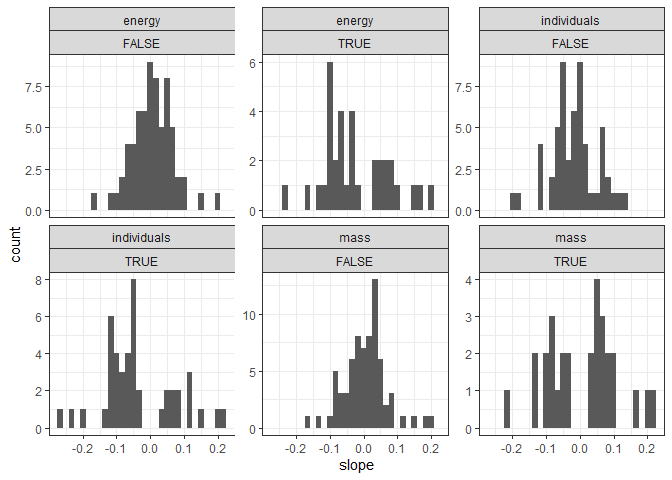
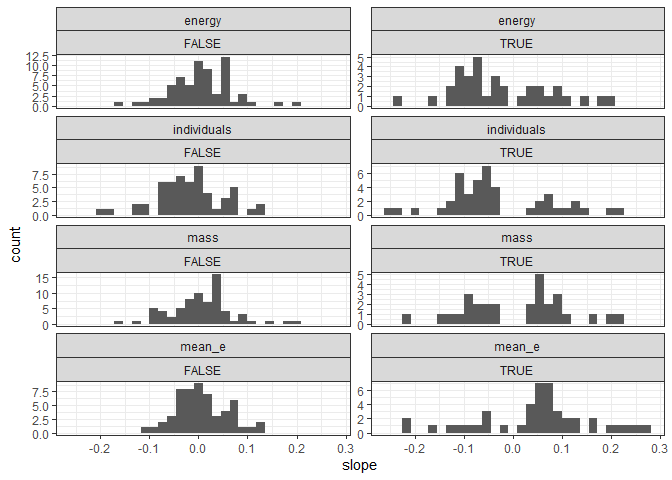
rough mean_e stuff

diff --git a/analysis/report.md b/analysis/report.md
@@ -29,7 +29,7 @@ ggplot(all_lin, aes(x = slope)) +
 ``` r
 ggplot(all_lin, aes(x = slope)) +
   geom_histogram() + theme_bw() + 
-  facet_wrap(vars(currency, signif), scales = "free_y") 
+  facet_wrap(vars(currency, signif), scales = "free_y", ncol = 2) 
 ```
 
     ## `stat_bin()` using `bins = 30`. Pick better value with `binwidth`.
@@ -37,13 +37,12 @@ ggplot(all_lin, aes(x = slope)) +
 ![](report_files/figure-gfm/slope%20and%20p%20hists-2.png)<!-- -->
 
 ``` r
-ggplot(all_lin, aes(x = slope, y = p, size = r2)) +
-  geom_point() + theme_bw() + 
-  geom_hline(yintercept = .05) +
-  facet_wrap(vars(currency))
+# 
+# ggplot(all_lin, aes(x = slope, y = p, size = r2)) +
+#   geom_point() + theme_bw() + 
+#   geom_hline(yintercept = .05) +
+#   facet_wrap(vars(currency))
 ```
-
-![](report_files/figure-gfm/slope%20and%20p%20hists-3.png)<!-- -->
 
 ``` r
 lin_sum <- all_lin %>%
@@ -59,7 +58,7 @@ lin_sum <- all_lin %>%
 print(lin_sum)
 ```
 
-    ## # A tibble: 6 x 6
+    ## # A tibble: 8 x 6
     ##   currency    signif prop_win prop_lose     n prop_overall
     ##   <chr>       <lgl>     <dbl>     <dbl> <int>        <dbl>
     ## 1 energy      FALSE     0.576     0.424    66        0.66 
@@ -68,6 +67,8 @@ print(lin_sum)
     ## 4 individuals TRUE      0.295     0.705    44        0.44 
     ## 5 mass        FALSE     0.549     0.451    71        0.71 
     ## 6 mass        TRUE      0.552     0.448    29        0.290
+    ## 7 mean_e      FALSE     0.5       0.5      56        0.56 
+    ## 8 mean_e      TRUE      0.75      0.25     44        0.44
 
 Run with 100 communities,
 
@@ -99,7 +100,7 @@ ggplot(all_pop_lin, aes(x = slope)) +
 ``` r
 ggplot(all_pop_lin, aes(x = slope)) +
   geom_histogram() + theme_bw() + 
-  facet_wrap(vars(signif), scales = "free_y")
+  facet_wrap(vars(currency, signif), scales = "free_y", ncol = 2)
 ```
 
     ## `stat_bin()` using `bins = 30`. Pick better value with `binwidth`.
@@ -107,15 +108,12 @@ ggplot(all_pop_lin, aes(x = slope)) +
 ![](report_files/figure-gfm/load%20pop-2.png)<!-- -->
 
 ``` r
-ggplot(all_pop_lin, aes(x = slope, y = p, size = r2)) +
-  geom_point() + theme_bw() + 
-  geom_hline(yintercept = .05) +
-  facet_wrap(vars(currency), scales = "free_y")
-```
+# 
+# ggplot(all_pop_lin, aes(x = slope, y = p, size = r2)) +
+#   geom_point() + theme_bw() + 
+#   geom_hline(yintercept = .05) +
+#   facet_wrap(vars(currency), scales = "free_y")
 
-![](report_files/figure-gfm/load%20pop-3.png)<!-- -->
-
-``` r
 lin_pop_sum <- all_pop_lin %>%
   group_by(currency, signif) %>%
   summarize(prop_win = mean(win),

diff --git a/analysis/report_trades.md b/analysis/report_trades.md
@@ -1,0 +1,82 @@
+Summary Report
+================
+Author
+2020-06-01
+
+## Aggregate
+
+``` r
+loadd(all_lin)
+```
+
+``` r
+all_lin_wide <- all_lin %>%
+  mutate(rtrg = paste0(route, "_", region)) %>%
+  select(slope, p, currency, rtrg) %>%
+  tidyr::pivot_wider(names_from = currency, values_from= c(slope, p)) %>%
+  mutate(which_signif = NA,
+         n_sig = p_individuals < 0.05,
+         e_sig = p_energy < 0.05) 
+
+for(i in 1:nrow(all_lin_wide)) {
+  
+  e_sig <- all_lin_wide$e_sig[i]
+  n_sig <- all_lin_wide$n_sig[i] 
+  
+  if(all(e_sig, n_sig)) {
+    all_lin_wide$which_signif[i] <- "both"
+  } else if(e_sig) {
+    all_lin_wide$which_signif[i] <- "energy"
+  } else if(n_sig) {
+    all_lin_wide$which_signif[i] <- "individuals"
+  } else {
+    all_lin_wide$which_signif[i] <- "none"
+  }
+  
+}
+
+ggplot(all_lin_wide, aes(x = slope_individuals, y = slope_energy, color = which_signif)) +
+  geom_point() +
+  geom_abline(slope = 1, intercept = 0) +
+  theme_bw() +
+  facet_wrap(vars(n_sig))
+```
+
+![](report_trades_files/figure-gfm/all%20lin%20wide-1.png)<!-- -->
+
+There’s something here I don’t quite know how to get at.
+
+``` r
+# If individuals is changing, how often is energy also changing vs not sig?
+
+all_lin_wide %>%
+  group_by(n_sig) %>%
+  summarize(prop_e_sig = mean(e_sig)) %>%
+  ungroup()
+```
+
+    ## # A tibble: 2 x 2
+    ##   n_sig prop_e_sig
+    ##   <lgl>      <dbl>
+    ## 1 FALSE     0.0714
+    ## 2 TRUE      0.682
+
+``` r
+ggplot(all_lin_wide, aes(x = slope_individuals, y = slope_energy, color = p_mean_e < .05)) +
+  geom_point() +
+  theme_bw() +
+  scale_color_viridis_d() +
+  facet_wrap(vars(which_signif))
+```
+
+![](report_trades_files/figure-gfm/mean%20e%20stuff-1.png)<!-- -->
+
+``` r
+ggplot(all_lin_wide, aes(x = p_individuals, y = p_mean_e)) +
+  geom_point() +
+  geom_hline(yintercept = .05) +
+  geom_vline(xintercept = .05) +
+  theme_bw()
+```
+
+![](report_trades_files/figure-gfm/mean%20e%20stuff-2.png)<!-- -->
